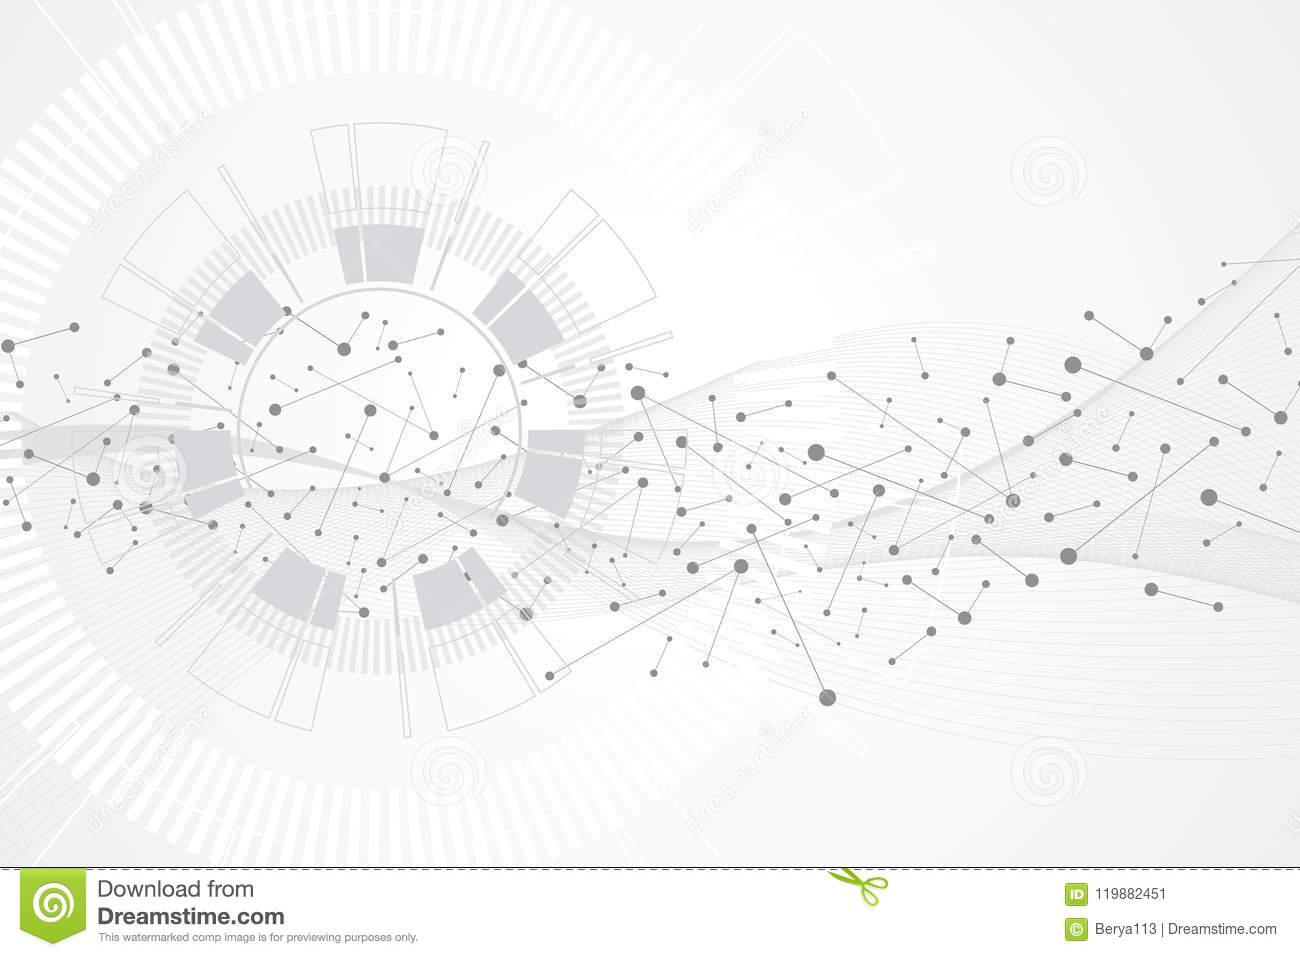
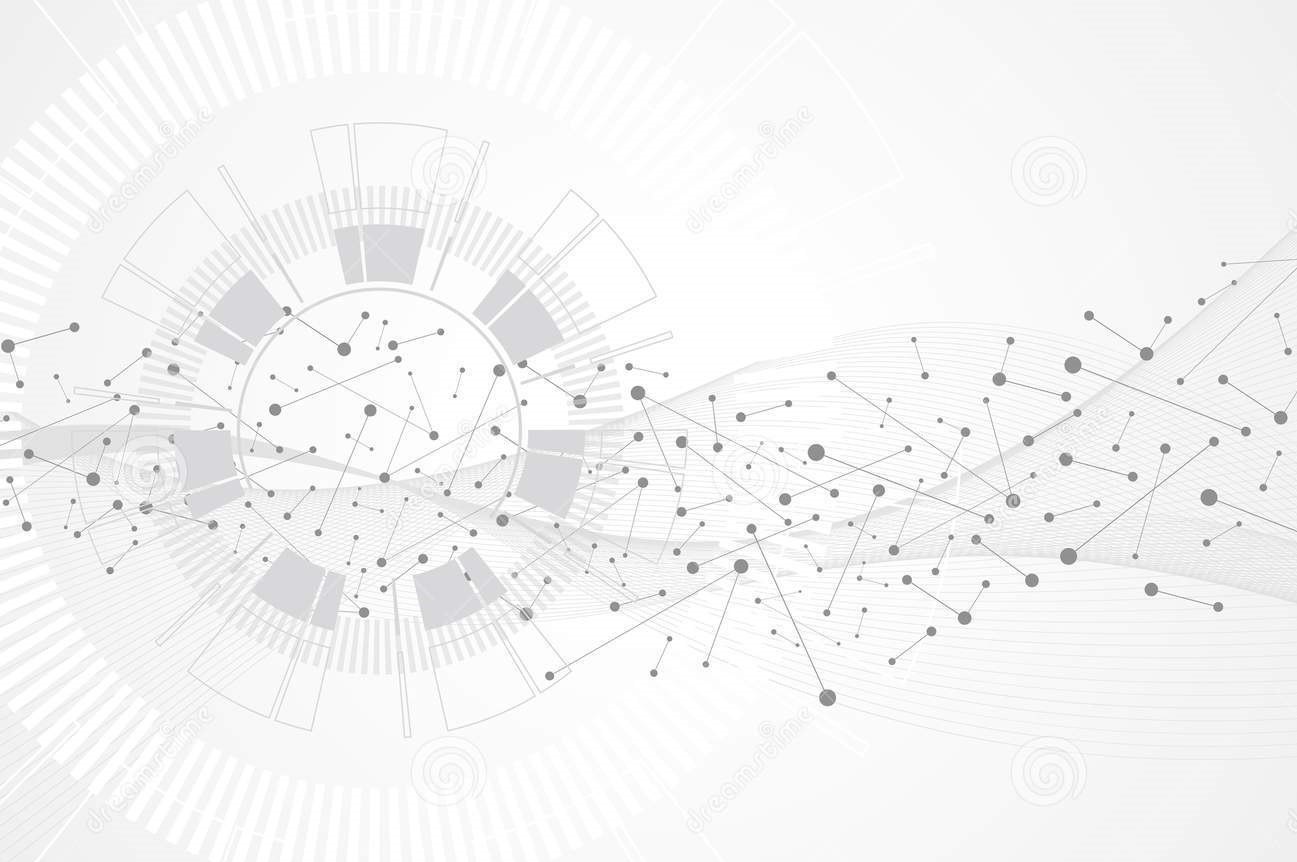
updating background

diff --git a/css/main.css b/css/main.css
@@ -1293,7 +1293,7 @@ header .logo a {
  * -------------------------------------------------------------------
  */
 #intro {
-	background: #151515 url(../images/wallpaper_portfolio.jpg) no-repeat center bottom;
+	background: #FFFFFF url(../images/wallpaper_portfolio.jpg) no-repeat center bottom;
 	-webkit-background-size: cover;
 	-moz-background-size: cover;
 	background-size: cover;
@@ -1304,7 +1304,7 @@ header .logo a {
 	display: table;
 	position: relative;
 	text-align: center;
-	opacity: 0.33;
+	opacity: 0.5;
 }
 .intro-overlay {
 	position: absolute;

diff --git a/index.html b/index.html
@@ -43,11 +43,11 @@
     <div class="row">
 
         <div class="top-bar">
-            <a class="menu-toggle" href="#"><span>Menu</span></a>
+            <!--<a class="menu-toggle" href="#"><span>Menu</span></a>
 
             <div class="logo">
                 <a href="index.html">Amine Kheldouni Portfolio</a>
-            </div>
+            </div>-->
 
            <!-- <nav id="main-nav-wrap">
                 <ul class="main-navigation">
